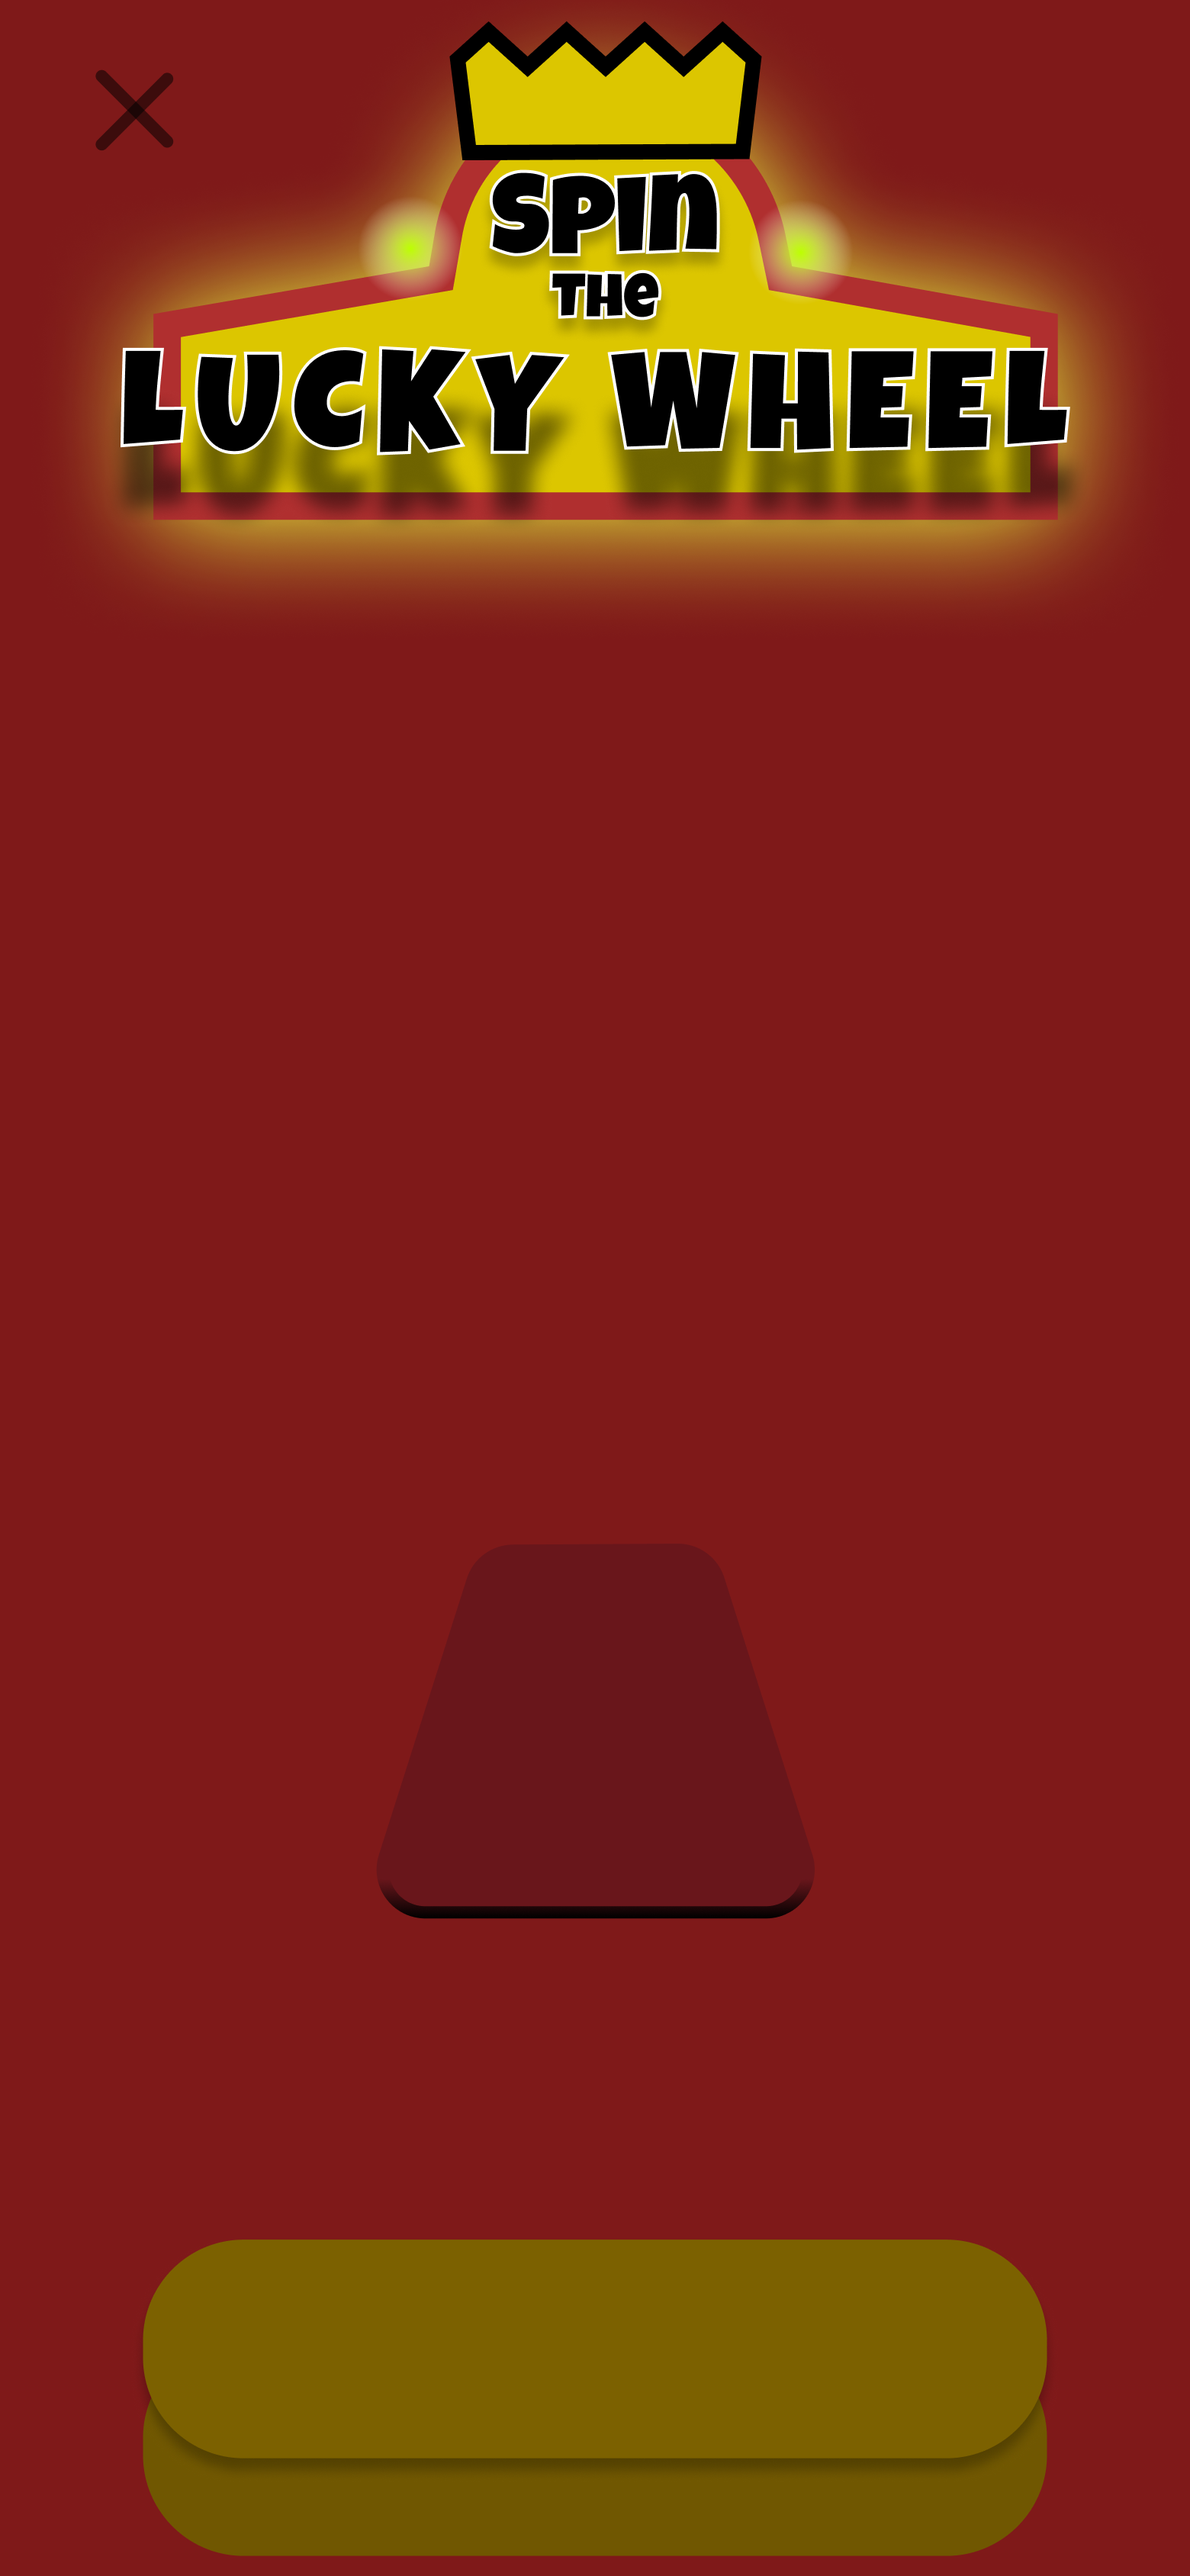
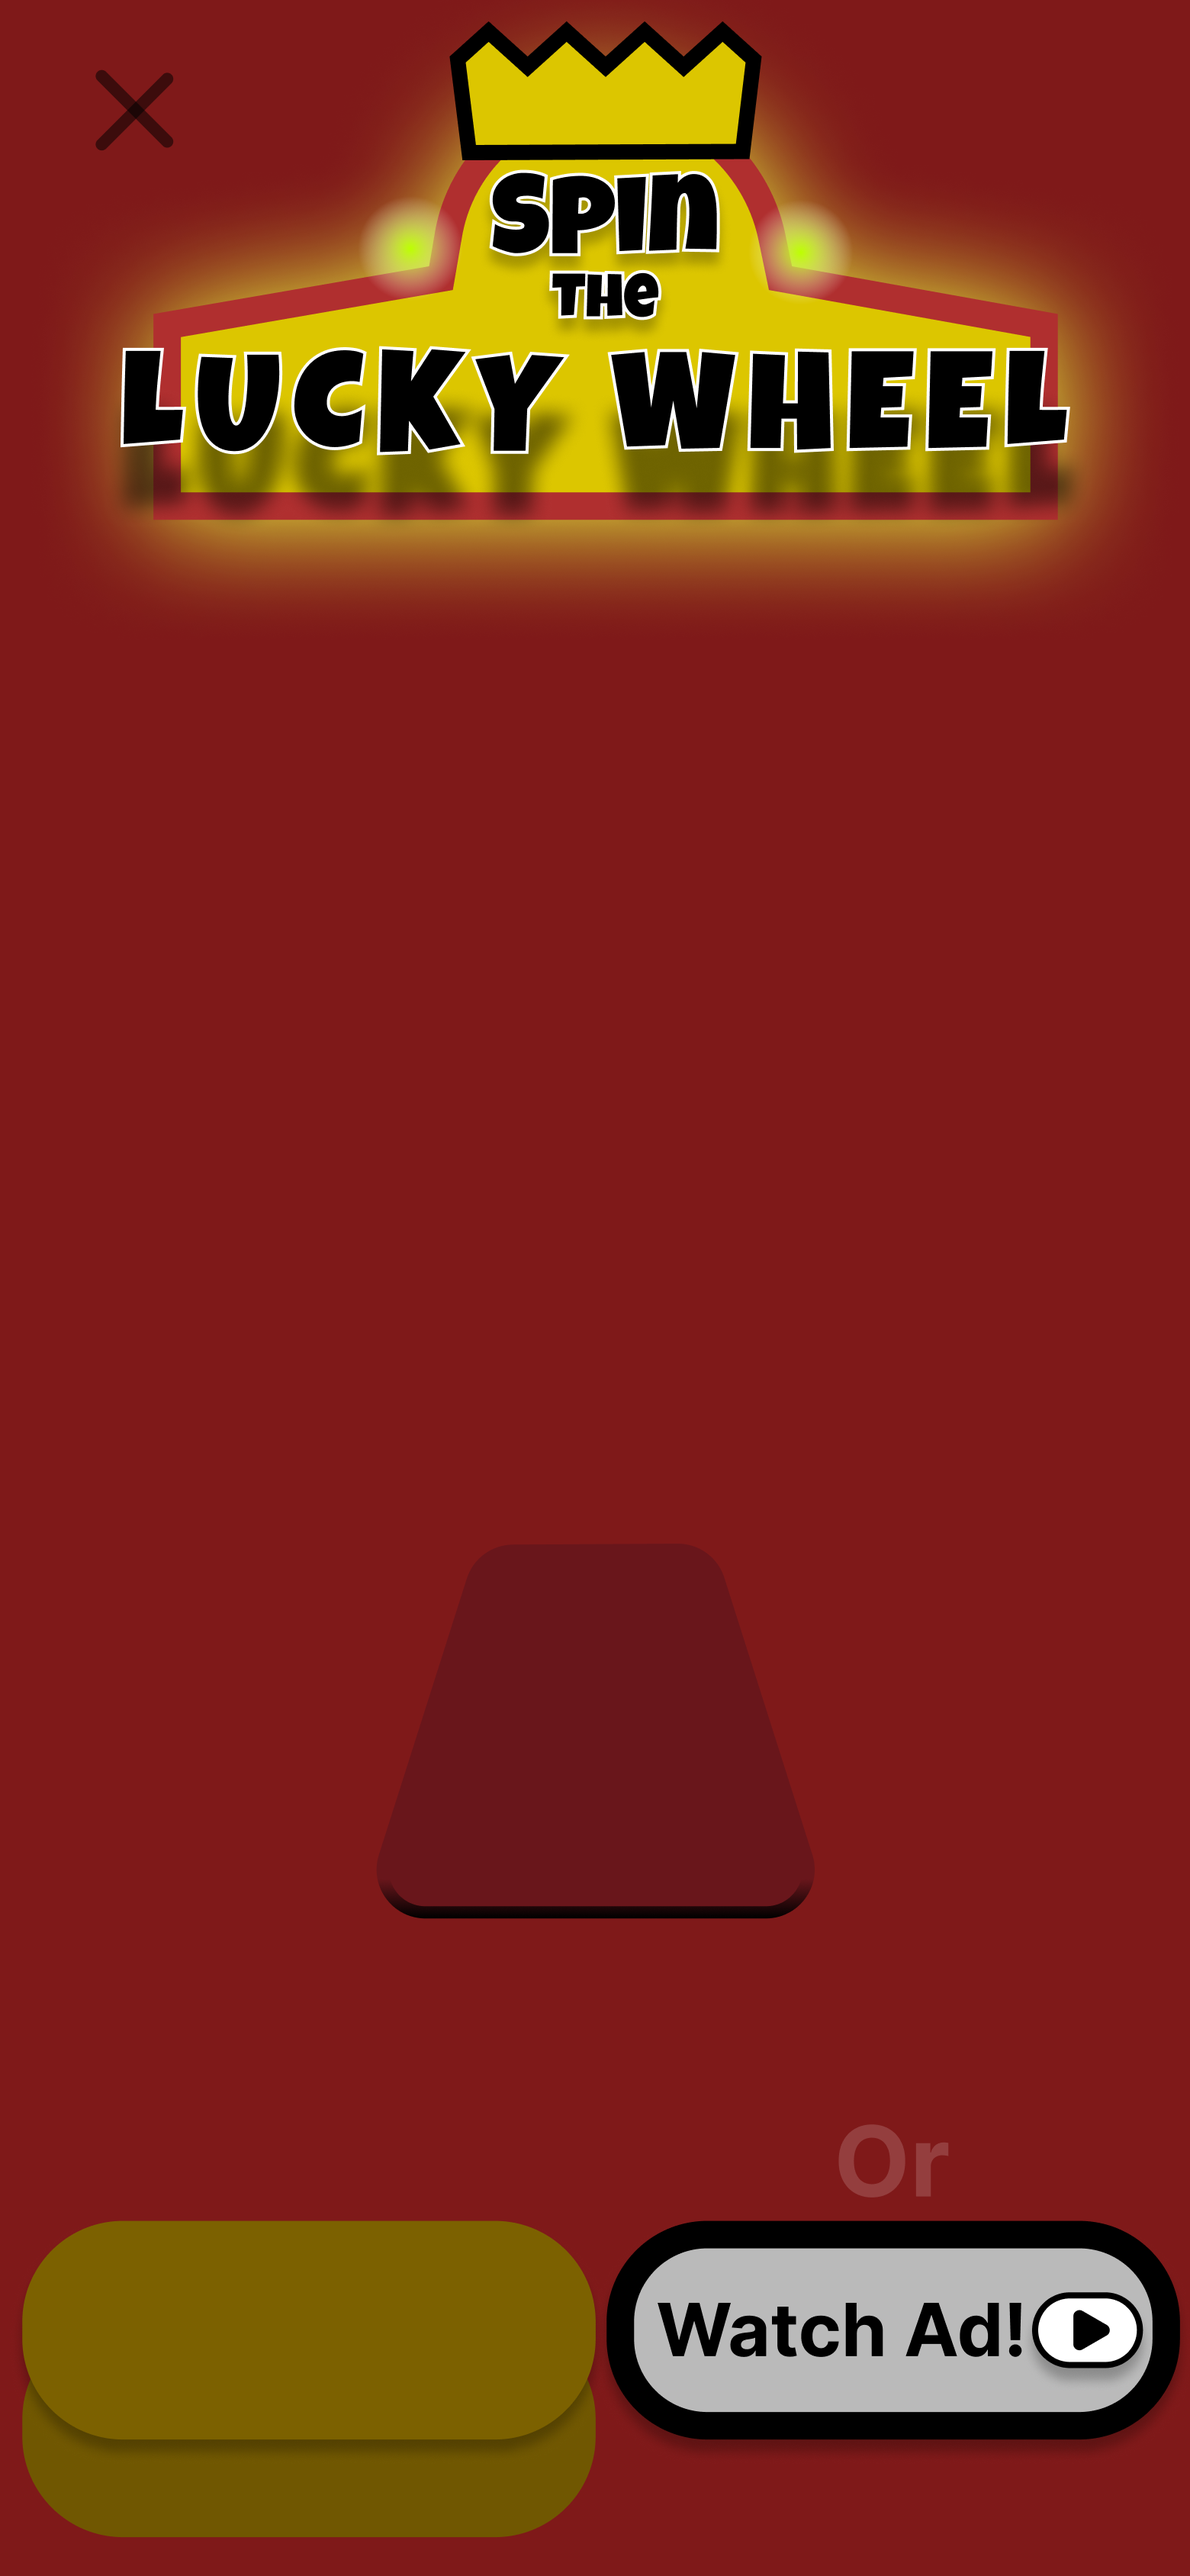
adwatchinscript

Changed region(s): [[0.0, 0.8086, 1.0, 0.9953]]

diff --git a/Assets/Scripts/luckywheelcanvasscript.cs b/Assets/Scripts/luckywheelcanvasscript.cs
@@ -18,6 +18,7 @@ public class luckywheelcanvasscript : MonoBehaviour
     private hub Hub;
     public GameObject wheeltarget;
     public TextMeshProUGUI prize;
+    public bool adwatched = false;
 
     void Start()
     {
@@ -31,15 +32,22 @@ public class luckywheelcanvasscript : MonoBehaviour
     }
 
     public void spinwheel()
-    {
-        if(Hub.money<Hub.level*Hub.level*1000)//checks if player has enough money if not breaks function
+    {   
+        bool hasnotenoughmoney = Hub.money >= Hub.level*Hub.level*1000;
+        if(!hasnotenoughmoney)//checks if player has enough money if not breaks function
         {
-            return;
-        }
         wheel.GetComponent<WheelScript>().spinwheel();//this gets wheel to spin by calling to a function that rotates it
         wheelbutton.GetComponent<Button>().interactable = false;//turns of a button for a spining time
         Hub.money -= Hub.level*Hub.level*1000;
         StartCoroutine(CheckWheelSpinning());
+        }
+        else if (adwatched)
+        {
+        wheel.GetComponent<WheelScript>().spinwheel();//this gets wheel to spin by calling to a function that rotates it
+        wheelbutton.GetComponent<Button>().interactable = false;//turns of a button for a spining time
+        StartCoroutine(CheckWheelSpinning());
+        adwatched = false;
+        }
     }
 
     public IEnumerator CheckWheelSpinning()//checks if animation is done

diff --git a/Assets/Scripts/WatchAdforspin.cs b/Assets/Scripts/WatchAdforspin.cs
@@ -1,0 +1,26 @@
+using System.Collections;
+using System.Collections.Generic;
+using UnityEngine;
+
+public class WatchAdforspin : MonoBehaviour
+{
+    public GameObject luckywheelcall;
+    private luckywheelcanvasscript luckywheelcanvasscript;
+    // Start is called before the first frame update
+    void Start()
+    {
+        luckywheelcanvasscript = luckywheelcall.GetComponent<luckywheelcanvasscript>();
+    }
+
+    // Update is called once per frame
+    void Update()
+    {
+        
+    }
+    void buttonforadpressed()
+    {
+        //show ad
+        //if ad is watched
+        luckywheelcanvasscript.adwatched = true;//spin the wheel
+    }
+}
